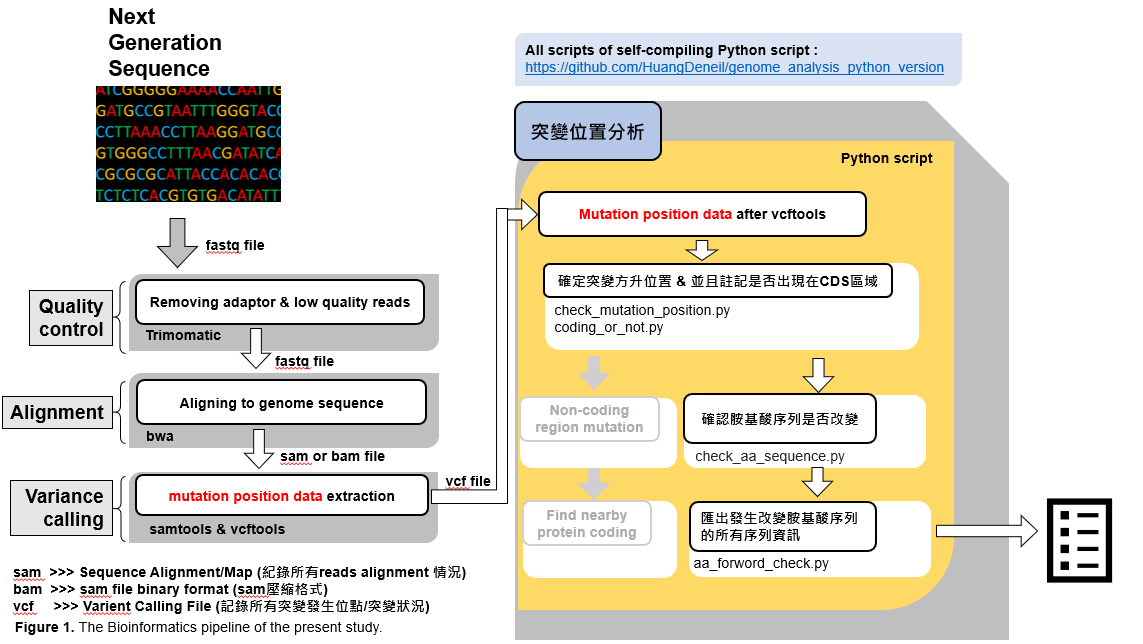
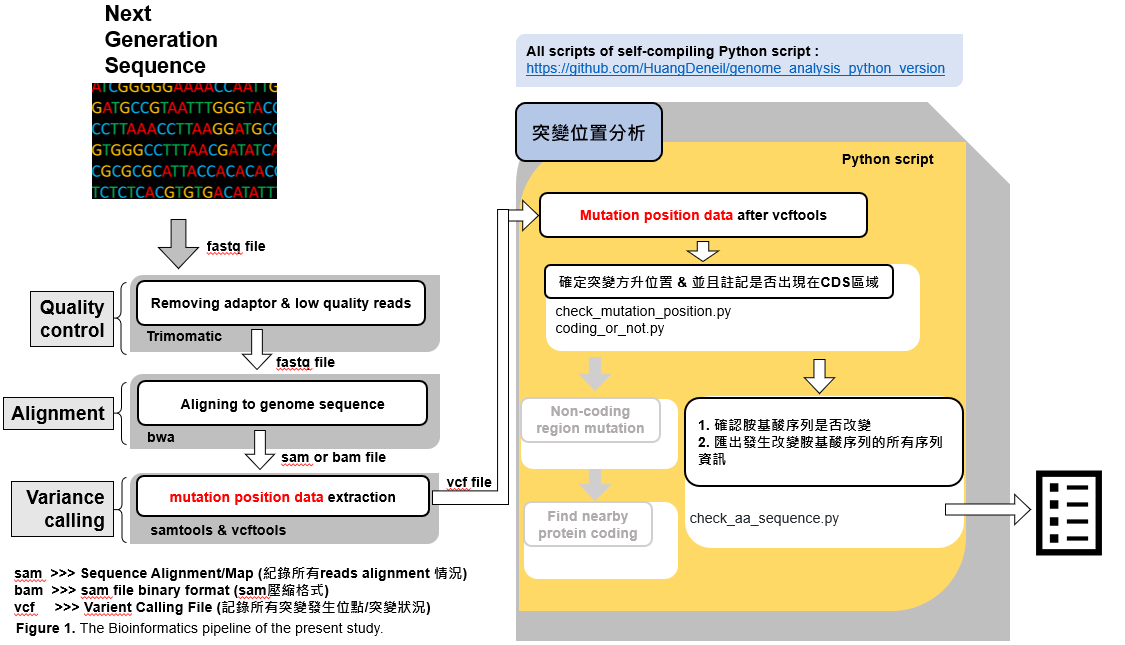
20210118

diff --git a/pipeline/check_aa_sequence.py b/pipeline/check_aa_sequence.py
@@ -214,7 +214,7 @@ def reverse_complement(dna):
 
 ########################################
 ####                                ####
-#### 最後整理確認cds 中所有mutation  ####
+#### 最後整理確認cds 中所有 mutation  ####
 ####                                ####
 ########################################
 
@@ -381,11 +381,37 @@ for i in list( cds_all_mutation.keys() ):
 os.system("if [ ! -d 'DNA' ] ; then mkdir DNA ; fi")
 os.system("if [ ! -d 'Protein' ] ; then mkdir Protein ; fi")
 
-print ("locus_taq\told_locus_taq\tprotein_id\tstatus\tdescription\tcds_fna\tmut_cds_fna\tcds_aa\tmut_cds_aa")
+print ("locus_taq\told_locus_taq\tprotein_id\tstatus\tdescription")
 
 for locus_taq in list(data_dic.keys()):
     print (data_dic[locus_taq])
+    
+    read_element = data_dic[locus_taq].split('\t')
+    
+    locus_taq = read_element[0]
+    old_locus_taq = read_element[1]
+    protein_id = read_element[2]
+    status = read_element[3]
+    description = read_element[4]
+    cds_fna = read_element[5]
+    mut_cds_fna = read_element[6]
+    cds_aa = read_element[7]
+    mut_cds_aa = read_element[8]
+    
+    print (locus_taq+"\t"+old_locus_taq+"\t"+protein_id+"\t"+status+"\t"+description)
+    
+    file1 = ("./DNA/"+locus_taq+".fa")
+    file2 = ("./Protein/"+locus_taq+".aa")
+    
+    locus_taq_DNA = open(file1, mode = "w" )
+    locus_taq_AA  = open(file2, mode = "w" )
+    
+    locus_taq_DNA.write(">"+locus_taq+"\tref\n"+cds_fna+"\n>"+locus_taq+"\talt\n"+mut_cds_fna+"\n")
+    locus_taq_AA.write(">"+locus_taq+"\tref\n"+cds_aa+"\n>"+locus_taq+"\talt\n"+mut_cds_aa+"\n")
 
+    locus_taq_DNA.close
+    locus_taq_AA.close
+    #
 
 
 
